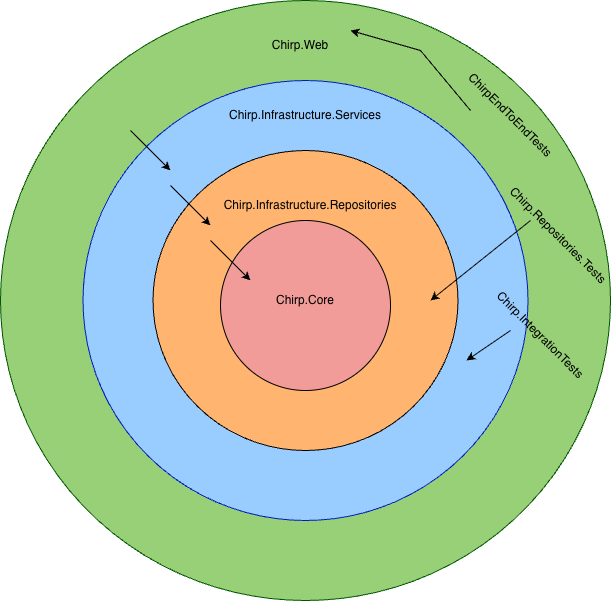
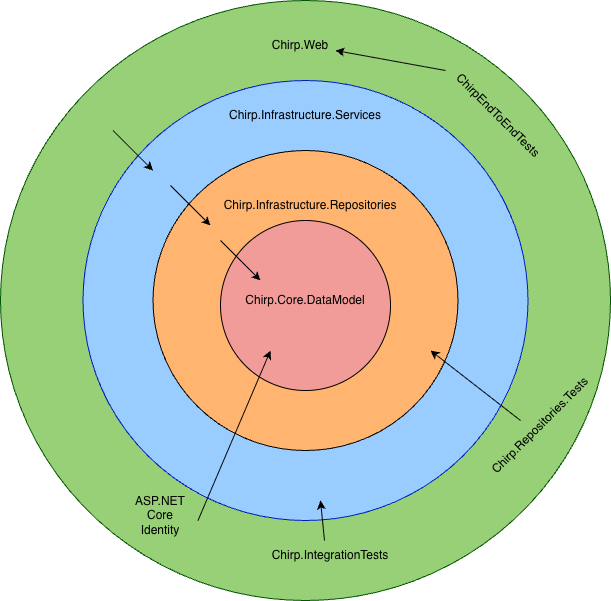
correcting following.cshmtl.cs to point to AuthorService instead of AuthorRepository

diff --git a/src/Chirp.Web/Pages/Following.cshtml.cs b/src/Chirp.Web/Pages/Following.cshtml.cs
@@ -1,5 +1,6 @@
-using Chirp.Core;
+
 using Chirp.Repositories;
+using Chirp.Services;
 using Microsoft.AspNetCore.Mvc;
 using Microsoft.AspNetCore.Mvc.RazorPages;
 
@@ -7,16 +8,16 @@ namespace Chirp.Web.Pages;
 
 public class FollowingModel : PageModel
 {
-    private readonly IAuthorRepository _authorRepository;
+    private readonly IAuthorService _authorService;
 
     public ICollection<AuthorDTO>? Following { get; set; }
 
     [BindProperty]
     public string? Unfollow { get; set; }
 
-    public FollowingModel(IAuthorRepository authorRepository)
+    public FollowingModel(IAuthorService authorService)
     {
-        _authorRepository = authorRepository;
+        _authorService = authorService;
     }
 
     public async Task<IActionResult> OnGetAsync()
@@ -29,12 +30,13 @@ public class FollowingModel : PageModel
         var authorName = User.Identity.Name;
 
 
-        var currentUser = await _authorRepository.GetAuthorByName(authorName!);
+        var currentUser = await _authorService.GetAuthorByName(authorName!);
+
 
 
         if (currentUser != null)
         {
-            Following = await _authorRepository.GetFollowing(currentUser);
+            Following = await _authorService.GetFollowing(currentUser.Name);
         }
 
         return Page();
@@ -48,9 +50,9 @@ public class FollowingModel : PageModel
         }
 
         var user = User.Identity?.Name;
-        var author = await _authorRepository.GetAuthorByName(user!);
-        var followAuthor = await _authorRepository.GetAuthorByName(Unfollow!);
-        await _authorRepository.UnFollow(author!, followAuthor!);
+        var author = await _authorService.GetAuthorByName(user!);
+        var followAuthor = await _authorService.GetAuthorByName(Unfollow!);
+        await _authorService.UnfollowUser(author!.Name!, followAuthor!.Name!);
 
 
         return RedirectToPage("/Following");
